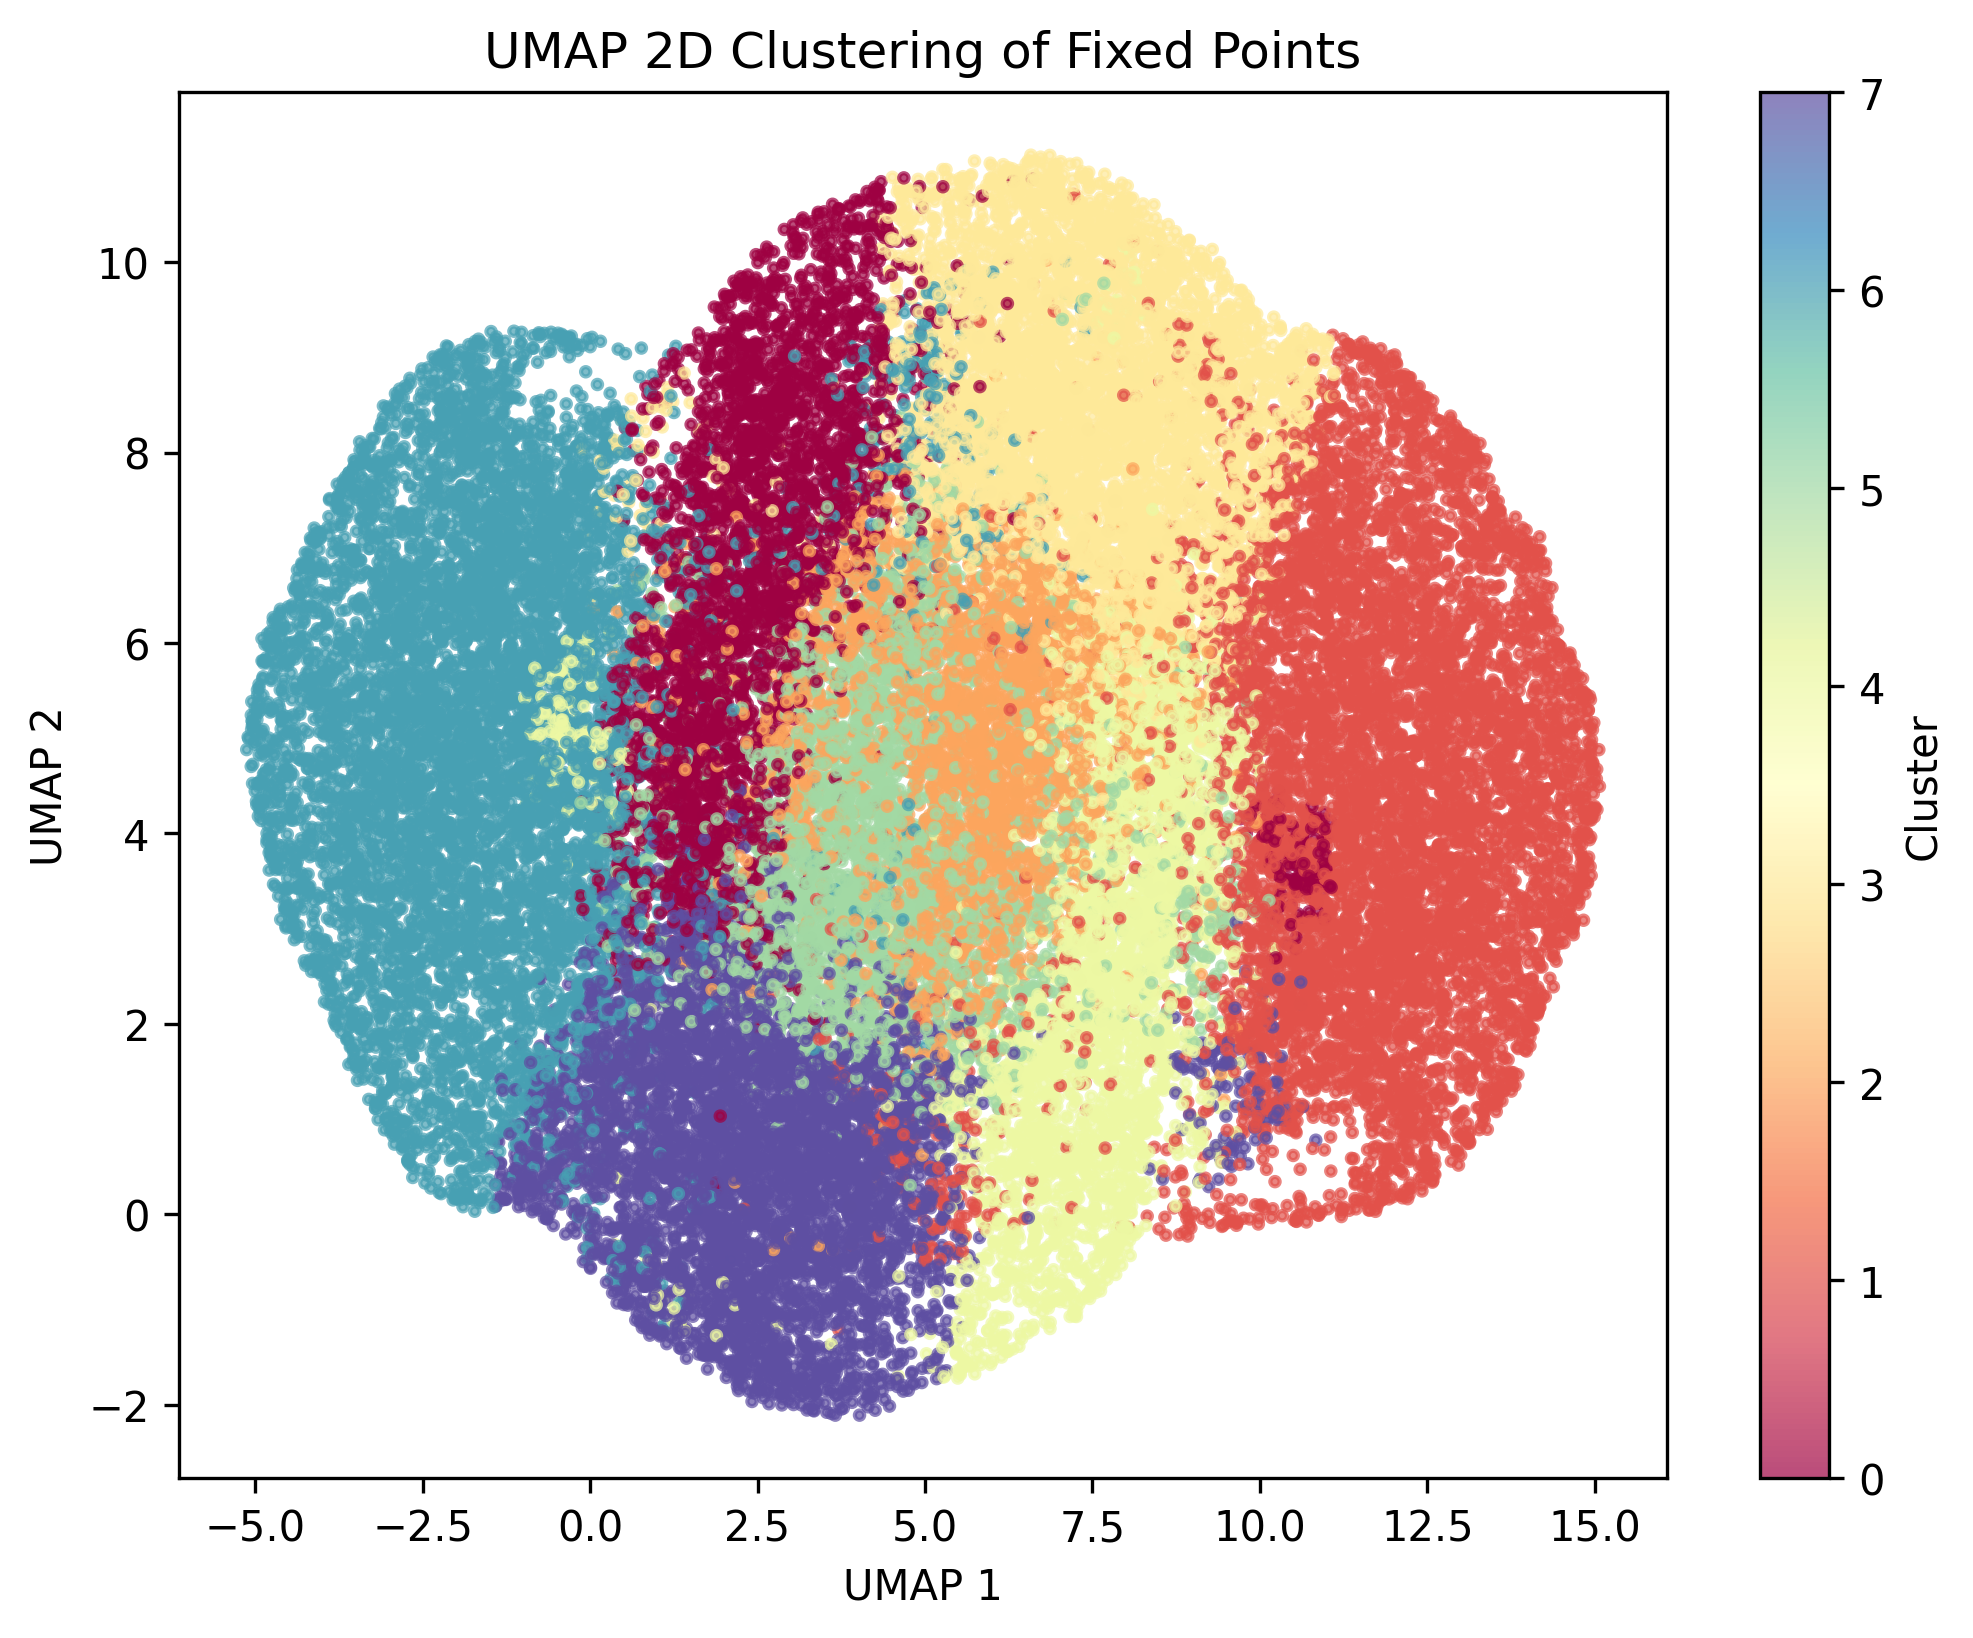
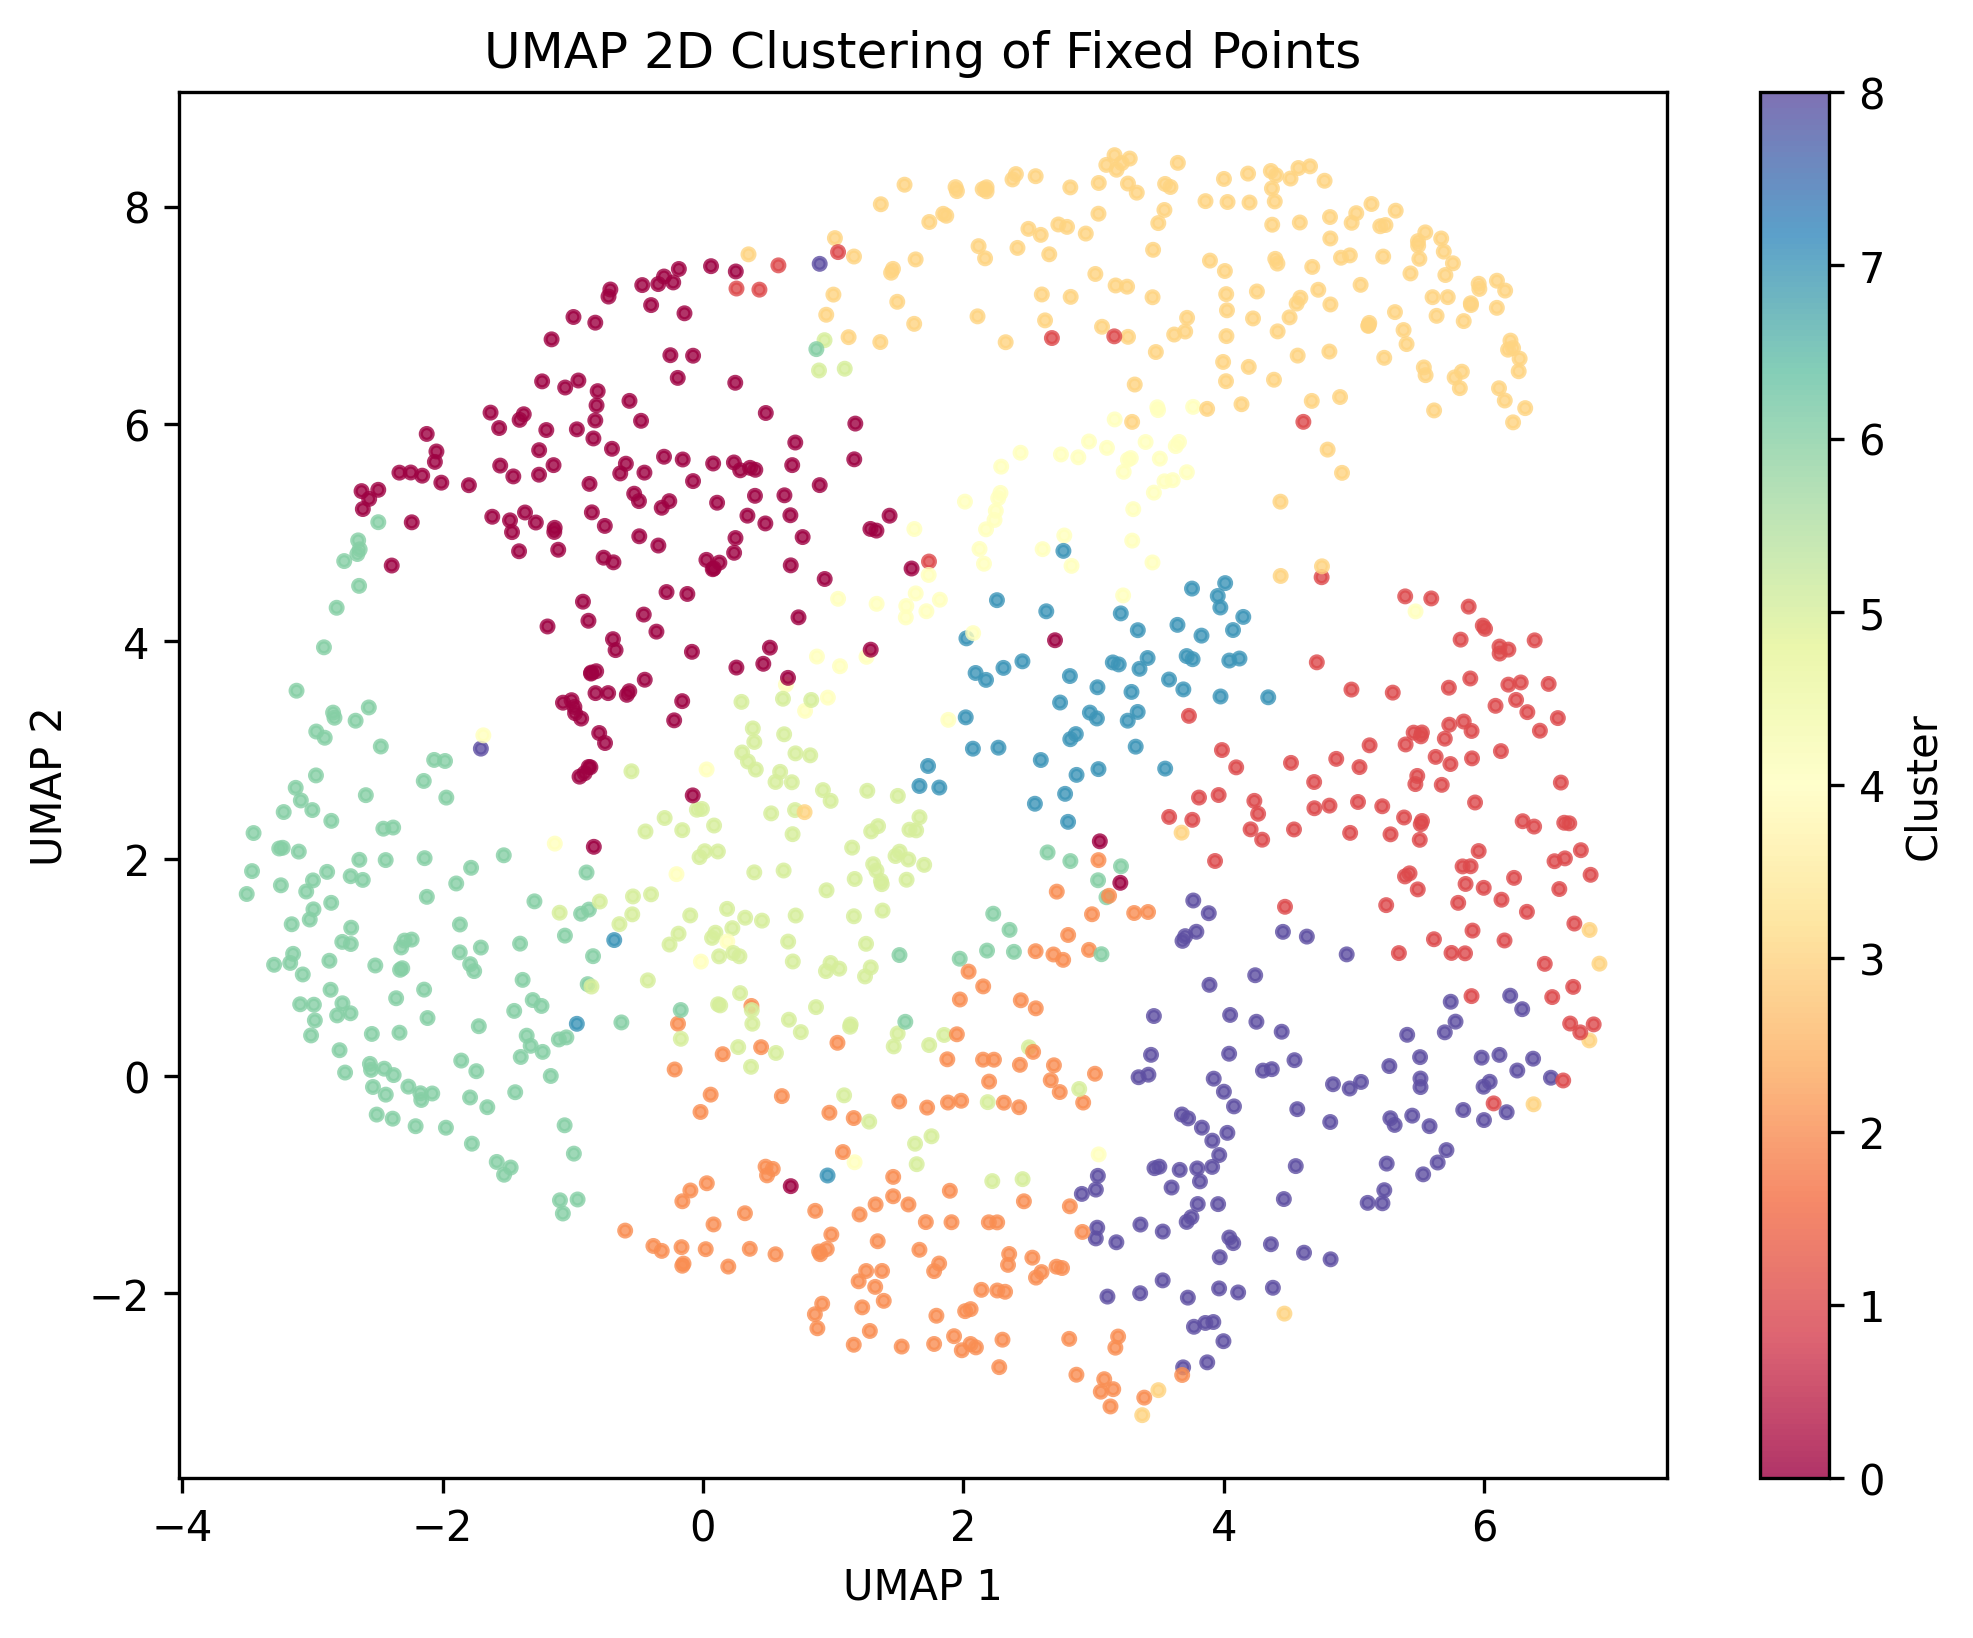
unbias sample for clustering

diff --git a/genedyn/__init__.py b/genedyn/__init__.py
@@ -37,7 +37,6 @@ def clustering_fixed_points():
     """Clustering with K-means and cluster analysis"""
     df = io.load_data()
     print(f"\nGenerated {len(df)} valid parameter sets.")
-    print(df.head())
 
     # Print distribution of dynamics
     dynamics_counts = df['dynamics'].value_counts(normalize=True)
@@ -48,9 +47,20 @@ def clustering_fixed_points():
     print("\nStandard deviation of fixed points:")
     for col in ['CEBPA', 'SPI1', 'MYB', 'RUNX1', 'HOXA9', 'MEIS1']:
         print(f" {col}: {df[col].std():.4f}")
+    # Separate each class
+    stable_df = df[df['dynamics'] == 'Stable']
+    nzfp_df = df[df['dynamics'] == 'Non-zero Fixed Points']
+    saddle_df = df[df['dynamics'] == 'Saddle']
+
+    # Choose how many Saddle samples to keep (preserving original order)
+    n_saddle = int(stable_df.shape[0] * 1.2)  # adjust this number as needed
+    saddle_df_sampled = saddle_df.head(n_saddle)
+
+    # Combine all parts
+    custom_df = pd.concat([stable_df, nzfp_df, saddle_df_sampled])
 
     # Select fixed points for clustering
-    fix_points = df[['CEBPA', 'SPI1', 'MYB', 'RUNX1', 'HOXA9', 'MEIS1']]
+    fix_points = custom_df[['CEBPA', 'SPI1', 'MYB', 'RUNX1', 'HOXA9', 'MEIS1']]
 
     # Normalize data
     scaler = StandardScaler()
@@ -75,12 +85,12 @@ def clustering_fixed_points():
     # Cluster with the optimal k
     kmeans = KMeans(n_clusters=best_k)
     clusters = kmeans.fit_predict(fix_points_scaled)
-    df['cluster'] = clusters
+    custom_df['cluster'] = clusters
 
     # Analyze clusters
     print("\nCluster analysis:")
     for cluster in range(best_k):
-        cluster_data = df[df['cluster'] == cluster]
+        cluster_data = custom_df[custom_df['cluster'] == cluster]
         print(f"\nCluster {cluster}:")
         print(f" Number of samples: {len(cluster_data)}")
         print(" Mean fixed points:")
@@ -98,7 +108,7 @@ def clustering_fixed_points():
     umap_embedding_2d = umap_reducer_2d.fit_transform(fix_points_scaled)
 
     plt.figure(figsize=(8, 6))
-    scatter = plt.scatter(umap_embedding_2d[:, 0], umap_embedding_2d[:, 1], c=clusters, cmap='Spectral', s=5, alpha=0.7)
+    scatter = plt.scatter(umap_embedding_2d[:, 0], umap_embedding_2d[:, 1], c=clusters, cmap='Spectral', s=8, alpha=0.8)
     plt.colorbar(scatter, label='Cluster')
     plt.title('UMAP 2D Clustering of Fixed Points')
     plt.xlabel('UMAP 1')
@@ -121,8 +131,8 @@ def clustering_fixed_points():
     )
     fig.update_traces(
         marker=dict(
-            size=1,
-            opacity=0.7,
+            size=5,
+            opacity=0.8,
             line=dict(width=0)
         )
     )
@@ -141,7 +151,7 @@ def clustering_fixed_points():
     pca_embedding_2d = pca_2d.fit_transform(fix_points_scaled)
 
     plt.figure(figsize=(8, 6))
-    scatter = plt.scatter(pca_embedding_2d[:, 0], pca_embedding_2d[:, 1], c=clusters, cmap='Spectral', s=5, alpha=0.7)
+    scatter = plt.scatter(pca_embedding_2d[:, 0], pca_embedding_2d[:, 1], c=clusters, cmap='Spectral', s=8, alpha=0.8)
     plt.colorbar(scatter, label='Cluster')
     plt.title('PCA 2D Clustering of Fixed Points')
     plt.xlabel('PCA 1')
@@ -164,8 +174,8 @@ def clustering_fixed_points():
     )
     fig.update_traces(
         marker=dict(
-            size=1,
-            opacity=0.7,
+            size=5,
+            opacity=0.8,
             line=dict(width=0)
         )
     )
@@ -183,7 +193,6 @@ def clustering_fixed_points():
 def learning_dynamics_custom_sampling():
     df = io.load_data()
     print(f"\nGenerated {len(df)} valid parameter sets.")
-    print(df.head())
 
     # Class distribution
     dynamics_counts = df['dynamics'].value_counts(normalize=True)
